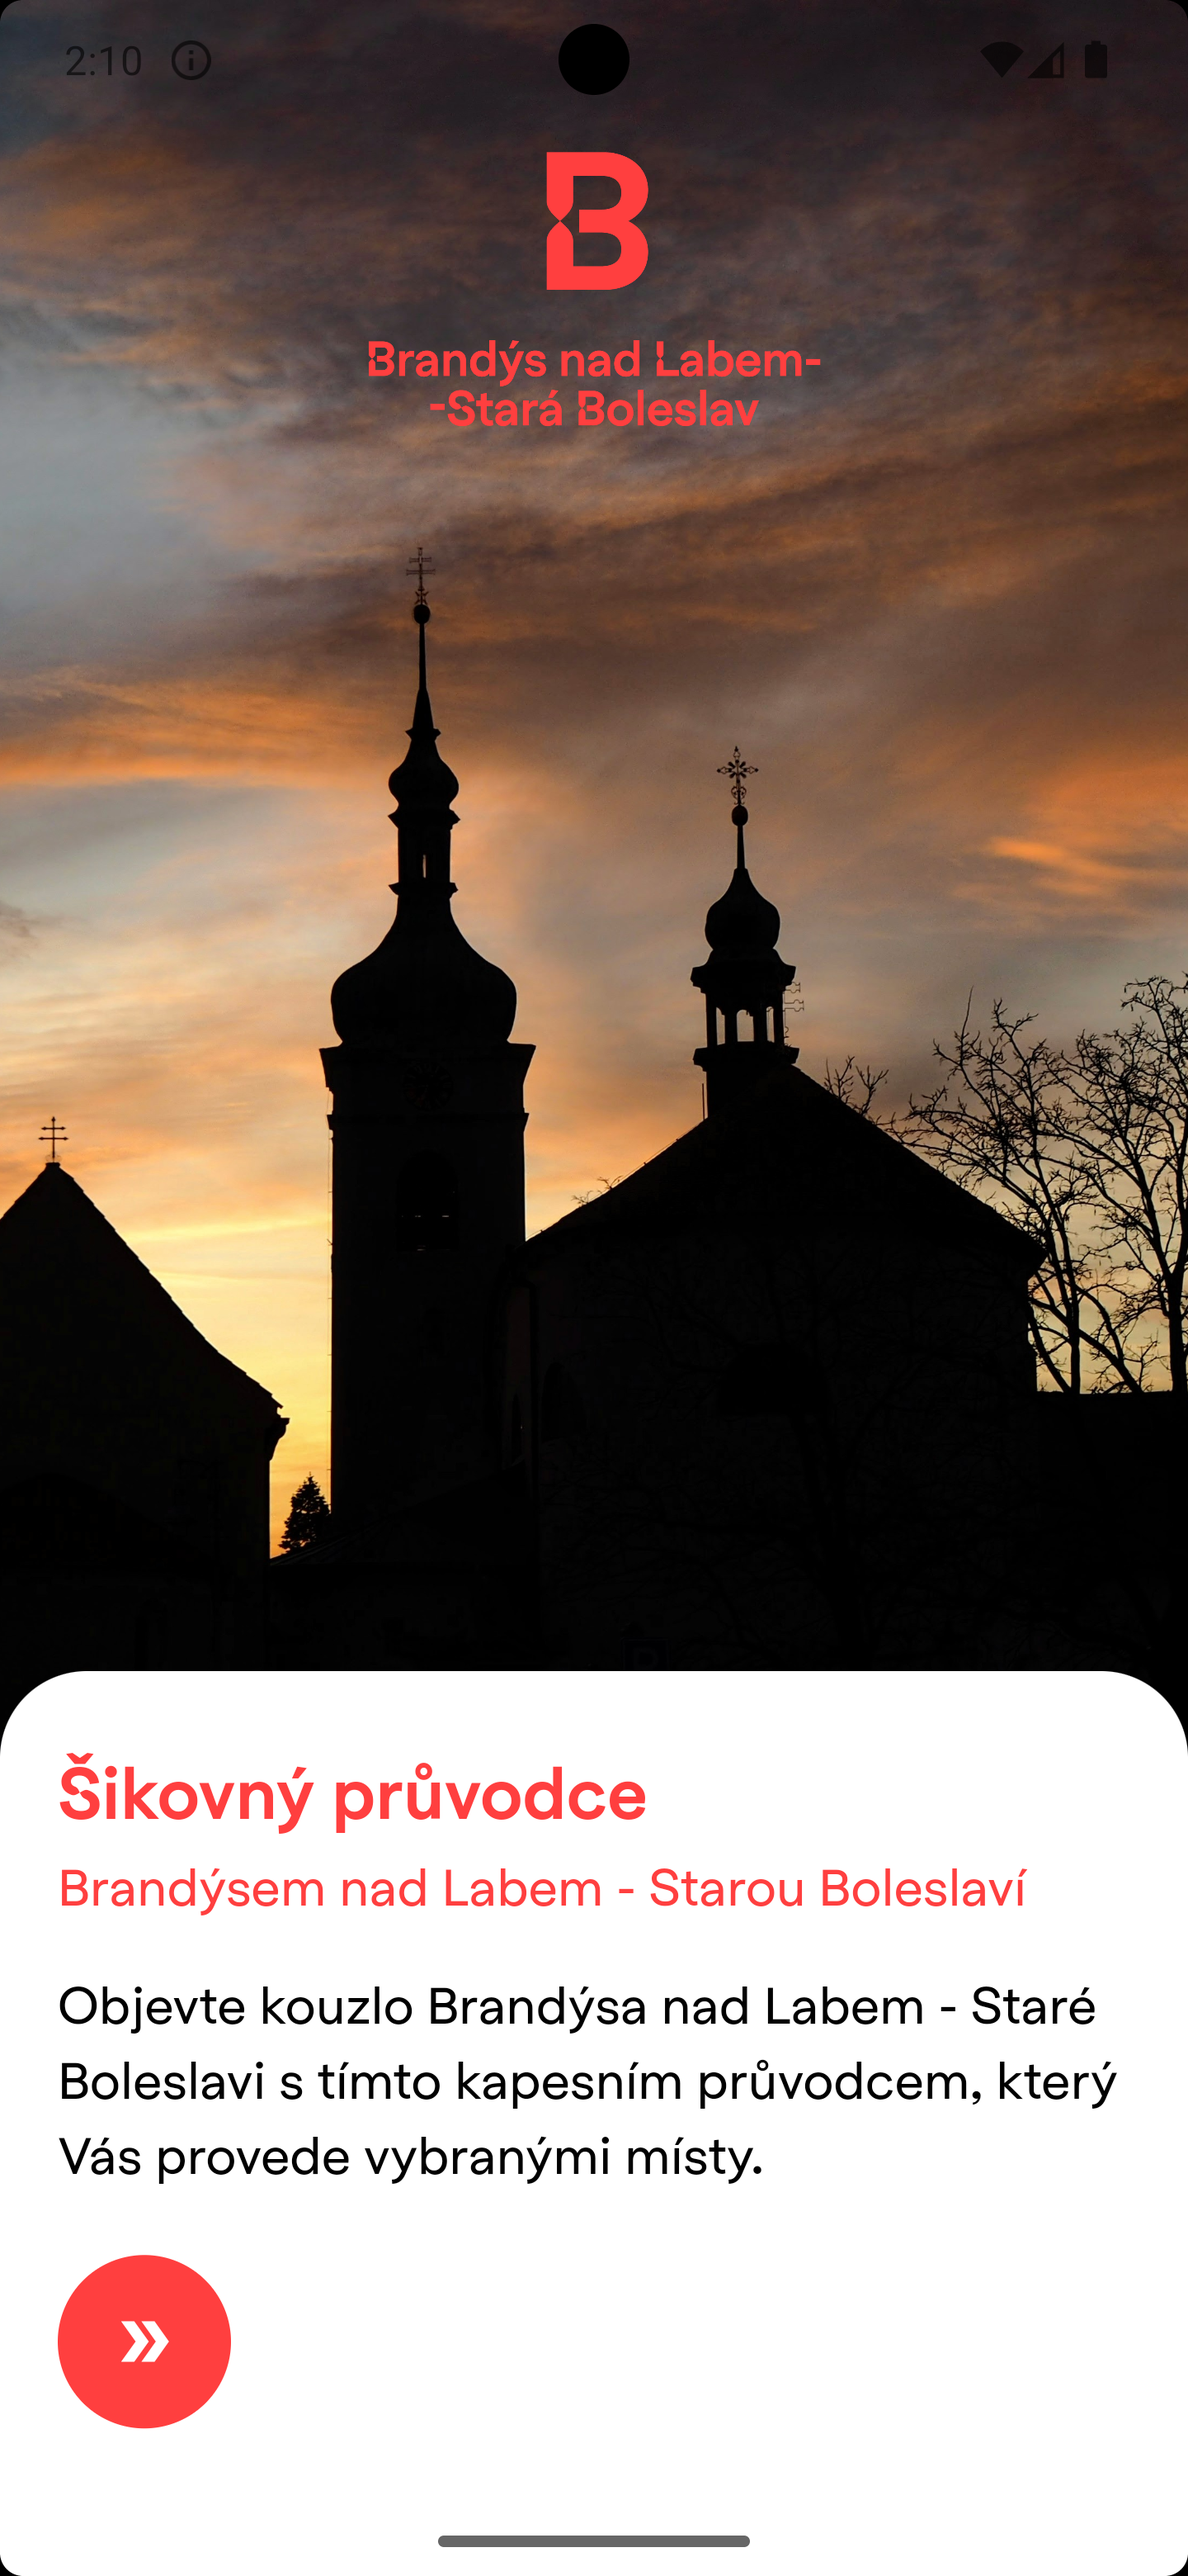
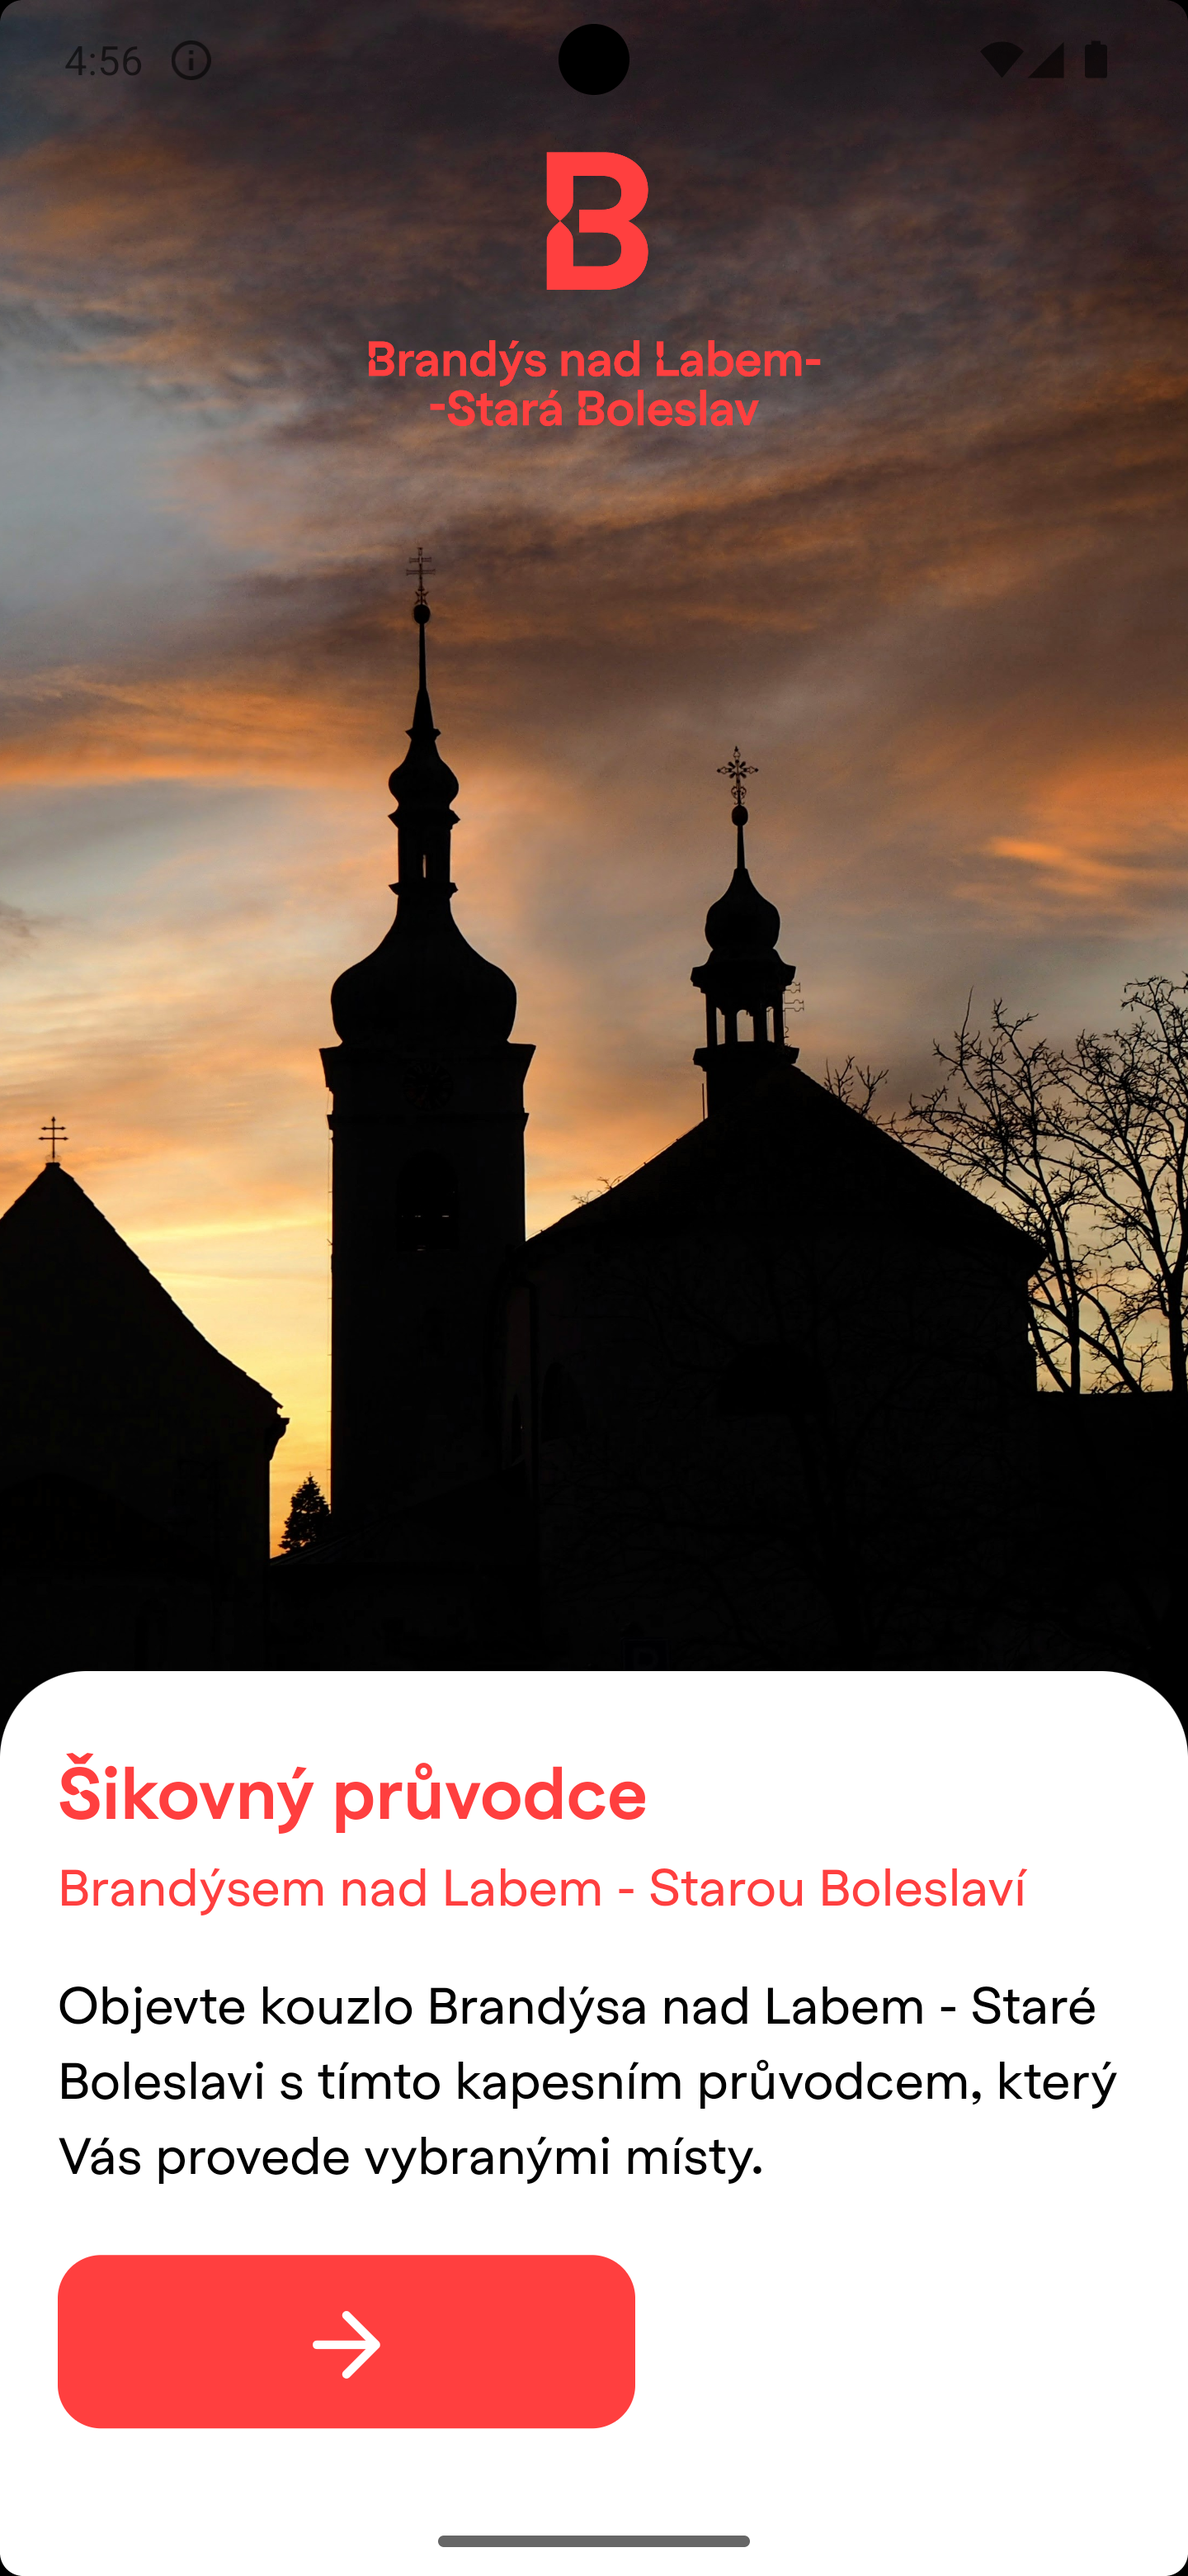
MapPage update

diff --git a/lib/pages/navpages/map_page.dart b/lib/pages/navpages/map_page.dart
@@ -1,13 +1,14 @@
 import 'dart:convert';
 import 'package:flutter/material.dart';
 import 'package:flutter_map/flutter_map.dart';
+import 'package:honest_guide/misc/colors.dart';
 import 'package:honest_guide/pages/navpages/offline_map.dart';
+import 'package:icons_flutter/icons_flutter.dart';
 import 'package:latlong2/latlong.dart';
 import 'package:honest_guide/cubit/app_cubit.dart';
 import 'package:flutter_bloc/flutter_bloc.dart';
 import 'package:sqflite_common_ffi/sqflite_ffi.dart';
 import 'package:honest_guide/model/data_model.dart';
-import 'package:geolocator/geolocator.dart';
 
 class MapPage extends StatefulWidget {
   @override
@@ -25,14 +26,30 @@ class _MapPageState extends State<MapPage> {
     sqfliteFfiInit();
     offlineMapController = OfflineMapController();
     _loadMarkerData();
-    _getCurrentLocation(); // Get the current location when the widget is initialized
   }
 
   Future<void> _loadMarkerData() async {
-    // Load data from the data.json file
-    String jsonString = await DefaultAssetBundle.of(context)
-        .loadString('assets/data/data.json');
-    List<dynamic> jsonData = jsonDecode(jsonString);
+    // Load data from the culture_data.json file
+    String cultureJsonString = await DefaultAssetBundle.of(context)
+        .loadString('assets/data/culture_data.json');
+    List<dynamic> cultureJsonData = jsonDecode(cultureJsonString);
+
+    // Load data from the food_data.json file
+    String foodJsonString = await DefaultAssetBundle.of(context)
+        .loadString('assets/data/food_data.json');
+    List<dynamic> foodJsonData = jsonDecode(foodJsonString);
+
+// Load data from the food_data.json file
+    String natureJsonString = await DefaultAssetBundle.of(context)
+        .loadString('assets/data/nature_data.json');
+    List<dynamic> natureJsonData = jsonDecode(natureJsonString);
+
+    // Combine both data lists into one markerData list
+    List<dynamic> jsonData = [
+      ...cultureJsonData,
+      ...foodJsonData,
+      ...natureJsonData
+    ];
 
     // Save data into the markerData list
     setState(() {
@@ -40,15 +57,6 @@ class _MapPageState extends State<MapPage> {
     });
 
     await offlineMapController.downloadMapTiles();
-  }
-
-  Future<void> _getCurrentLocation() async {
-    Position position = await Geolocator.getCurrentPosition(
-        desiredAccuracy: LocationAccuracy.high); // Get the current location
-    setState(() {
-      currentLocation = LatLng(
-          position.latitude, position.longitude); // Update the current location
-    });
   }
 
   @override
@@ -77,8 +85,11 @@ class _MapPageState extends State<MapPage> {
           // Here you can add the code to navigate back to the homescreen
           BlocProvider.of<AppCubits>(context).goHome();
         },
-        backgroundColor: Colors.blue, // Blue color
-        child: Icon(Icons.close),
+        backgroundColor: Colors.white, // Blue color
+        child: Icon(
+          Icons.close,
+          color: AppColors.thirdColor,
+        ),
       ),
       floatingActionButtonLocation: FloatingActionButtonLocation.startTop,
     );
@@ -102,8 +113,8 @@ class _MapPageState extends State<MapPage> {
             BlocProvider.of<AppCubits>(context).DetailPage(dataModel);
           },
           child: Icon(
-            Icons.location_on,
-            color: Colors.red,
+            MaterialCommunityIcons.map_marker,
+            color: AppColors.fourthColor,
           ),
         ),
       );

diff --git a/lib/pages/home_page.dart b/lib/pages/home_page.dart
@@ -515,8 +515,8 @@ class _HomePageState extends State<HomePage> with TickerProviderStateMixin {
                                     borderRadius: BorderRadius.circular(10),
                                     color: Colors.white,
                                     image: DecorationImage(
-                                      image: AssetImage(
-                                          'assets/img/welcome-3.png'),
+                                      image:
+                                          AssetImage('assets/img/welcome.png'),
                                       fit: BoxFit.cover,
                                     ),
                                   ),
@@ -561,8 +561,8 @@ class _HomePageState extends State<HomePage> with TickerProviderStateMixin {
                                     borderRadius: BorderRadius.circular(10),
                                     color: Colors.white,
                                     image: DecorationImage(
-                                      image: AssetImage(
-                                          'assets/img/welcome-3.png'),
+                                      image:
+                                          AssetImage('assets/img/welcome.png'),
                                       fit: BoxFit.cover,
                                     ),
                                   ),
@@ -607,8 +607,8 @@ class _HomePageState extends State<HomePage> with TickerProviderStateMixin {
                                     borderRadius: BorderRadius.circular(10),
                                     color: Colors.white,
                                     image: DecorationImage(
-                                      image: AssetImage(
-                                          'assets/img/welcome-3.png'),
+                                      image:
+                                          AssetImage('assets/img/welcome.png'),
                                       fit: BoxFit.cover,
                                     ),
                                   ),

diff --git a/lib/widgets/responsive_button.dart b/lib/widgets/responsive_button.dart
@@ -1,6 +1,7 @@
 import 'package:flutter/cupertino.dart';
 import 'package:flutter/material.dart';
 import 'package:honest_guide/misc/colors.dart';
+import 'package:icons_flutter/icons_flutter.dart';
 
 // ignore: must_be_immutable
 class ResponsiveButton extends StatelessWidget {
@@ -11,20 +12,21 @@ class ResponsiveButton extends StatelessWidget {
   @override
   Widget build(BuildContext context) {
     return Align(
-      alignment: Alignment.centerRight, // Zarovnání k pravé hraně
+      alignment: Alignment.centerLeft, // Zarovnání k pravé hraně
       child: Container(
-        width: 60,
+        width: width,
         height: 60,
         decoration: BoxDecoration(
-          borderRadius: BorderRadius.circular(100),
+          borderRadius: BorderRadius.circular(15),
           color: AppColors.fourthColor,
         ),
         child: Row(
           mainAxisAlignment: MainAxisAlignment.center,
           children: [
             Icon(
-              Icons.double_arrow,
+              Feather.arrow_right,
               color: Colors.white,
+              size: 35,
             ),
           ],
         ),

diff --git a/lib/pages/welcome_page.dart b/lib/pages/welcome_page.dart
@@ -95,7 +95,7 @@ class _WelcomePageState extends State<WelcomePage> {
                                       .start, // Align the button to the right
                                   children: [
                                     Align(
-                                      alignment: Alignment.bottomRight,
+                                      alignment: Alignment.center,
                                       child: ResponsiveButton(
                                         width: 200,
                                       ),
